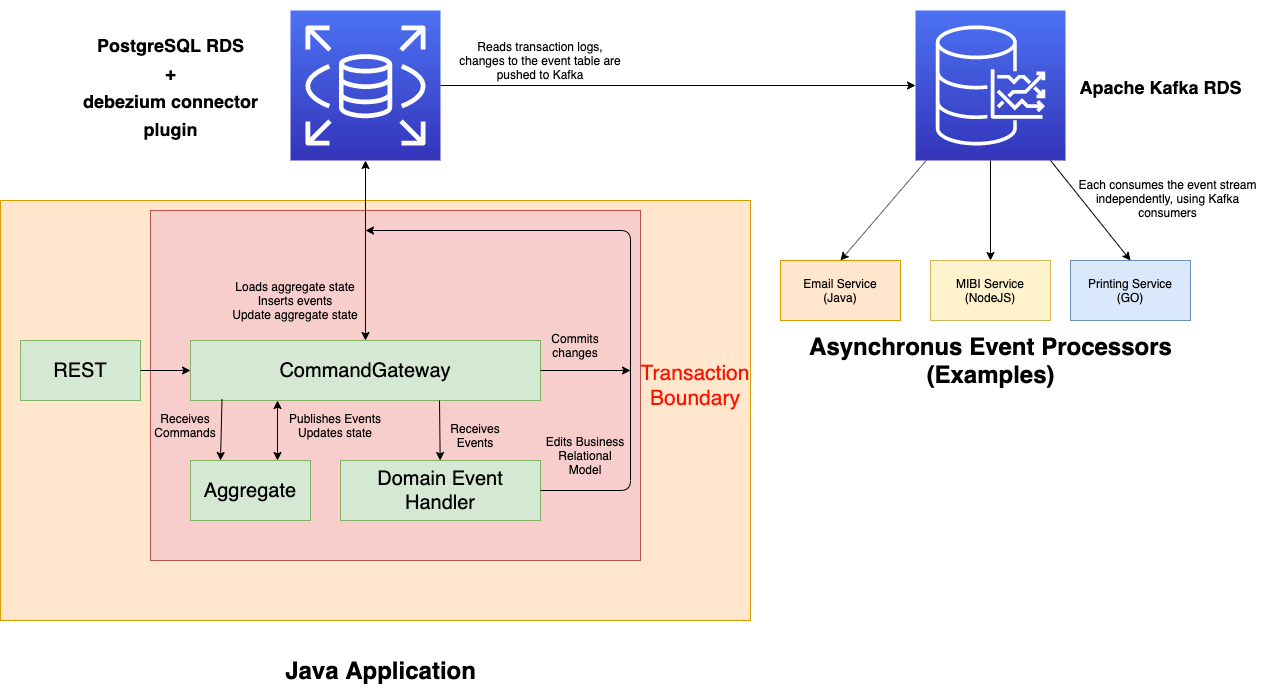
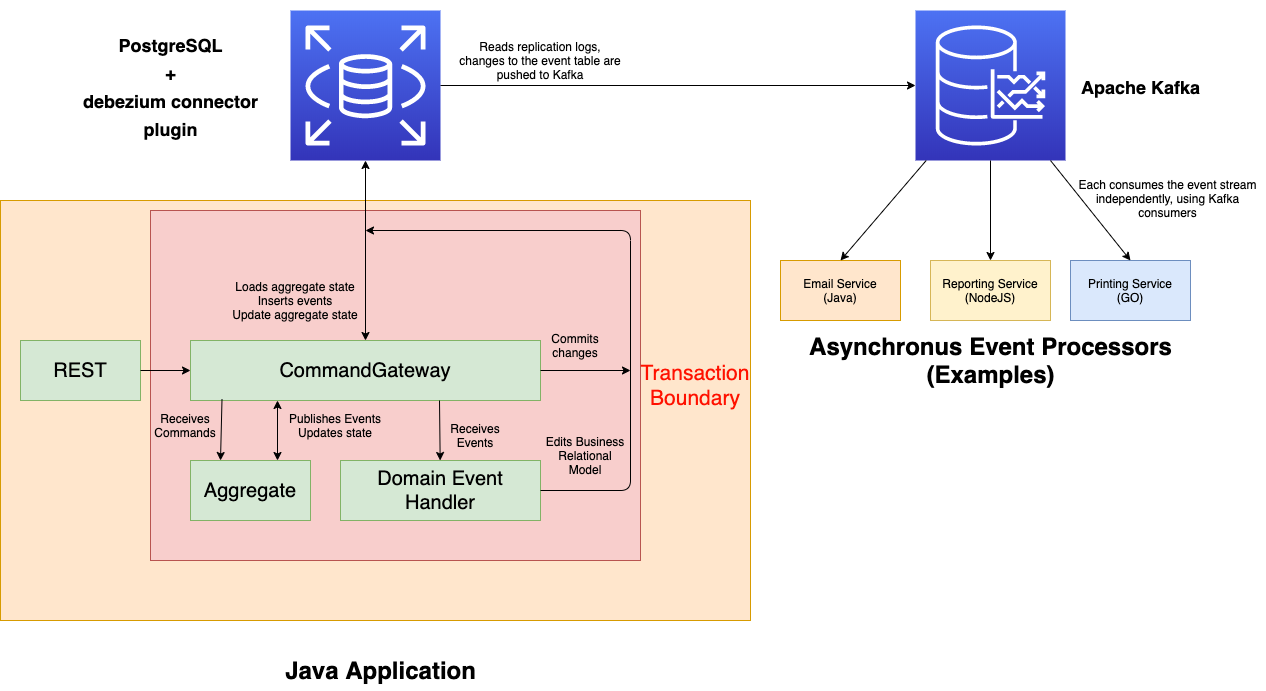
Fixed mistakes in documentation, code cleanup, simplified docker setup for example

diff --git a/examples/example-driver/src/main/java/com/moppletop/ddd/driver/DriverApp.java b/examples/example-driver/src/main/java/com/moppletop/ddd/driver/DriverApp.java
@@ -1,74 +1,13 @@
 package com.moppletop.ddd.driver;
 
-import com.moppletop.ddd.aggregate.AggregateRepository;
-import com.moppletop.ddd.aggregate.JdbcAggregateRepository;
-import com.moppletop.ddd.command.CommandGateway;
-import com.moppletop.ddd.command.DefaultCommandGateway;
-import com.moppletop.ddd.dependency.DependencyRegister;
-import com.moppletop.ddd.dependeny.ExplicitDependencyRegister;
-import com.moppletop.ddd.event.*;
-import com.moppletop.ddd.eventstream.kafka.KafkaEventStream;
-import com.moppletop.ddd.query.DefaultQueryGateway;
-import com.moppletop.ddd.query.QueryGateway;
-import com.moppletop.ddd.transformer.ObjectTransformer;
-import com.moppletop.ddd.transformer.jackson.JacksonObjectTransformer;
-import com.moppletop.ddd.wiring.ExplicitWiringManager;
-import com.moppletop.ddd.wiring.WiringManager;
 import org.springframework.boot.SpringApplication;
 import org.springframework.boot.autoconfigure.SpringBootApplication;
-
-import javax.sql.DataSource;
-import java.time.Duration;
 
 @SpringBootApplication
 public class DriverApp {
 
     public static void main(String[] args) {
         SpringApplication.run(DriverApp.class, args);
-    }
-
-    private final DependencyRegister dependencyRegister;
-    private final ObjectTransformer objectTransformer;
-    private final AggregateRepository aggregateRepository;
-    private final EventRepository eventRepository;
-    private final ExplicitWiringManager wiringManager;
-    private final CommandGateway commandGateway;
-    private final EventGateway eventGateway;
-    private final QueryGateway queryGateway;
-
-    private final EventStreamer eventStreamer;
-
-    public DriverApp(DataSource dataSource) {
-        this.dependencyRegister = new ExplicitDependencyRegister();
-        // Note this requires Jackson 2 on the classpath!
-        // If you are using another serialisation library, implement your own ObjectTransformer
-        this.objectTransformer = new JacksonObjectTransformer();
-        this.aggregateRepository = new JdbcAggregateRepository(objectTransformer);
-        this.eventRepository = new JdbcEventRepository(objectTransformer);
-        this.wiringManager = new ExplicitWiringManager(dependencyRegister);
-        this.commandGateway = new DefaultCommandGateway(
-                dataSource,
-                aggregateRepository,
-                eventRepository,
-                wiringManager
-        );
-        this.eventGateway = new DefaultEventGateway(wiringManager);
-        this.queryGateway = new DefaultQueryGateway(wiringManager);
-
-        this.eventStreamer = KafkaEventStream.builder()
-                .groupId("example-app")
-                .topic("dbserver1.public.event")
-                .kafkaHost("kafka:9092")
-                .pollingRate(Duration.ofSeconds(1))
-                .objectTransformer(objectTransformer)
-                .eventGateway(eventGateway)
-                .build();
-
-//        wiringManager.registerAggregate(MyAggregate.class);
-//        wiringManager.registerAggregate(MyOtherAggregate.class);
-//
-//        wiringManager.registerDomainEventHandlers(new MyDomainEventHandlers());
-//        wiringManager.re
     }
 
 }

diff --git a/framework/src/main/java/com/moppletop/ddd/dependeny/ExplicitDependencyRegister.java b/framework/src/main/java/com/moppletop/ddd/dependeny/ExplicitDependencyRegister.java
@@ -28,8 +28,8 @@ public class ExplicitDependencyRegister implements DependencyRegister {
     }
 
     /**
-     * Registers a dependency. Note for dependencies that are state defendant, like the current transaction or timestamp of the event
-     * you'll need to register it as a TypeSafeSupplier, the get will be invoked when the {@link DependencyRegister#getDependency(Class)} is called
+     * Registers a dependency. Note for dependencies that are state dependant, like the current transaction or timestamp of the event
+     * you'll need to register it as a TypeSafeSupplier, the get() will be invoked when the {@link DependencyRegister#getDependency(Class)} is called
      * Due to how generic types are implemented a regular {@link Supplier} will throw a {@link IllegalArgumentException}, use a TypeSafeSupplier instead
      *
      * @param dependency the dependency (or supplier of the dependency) to register

diff --git a/event-brokers/event-broker-kafka/src/main/java/com/moppletop/ddd/eventstream/kafka/KafkaEventStream.java b/event-brokers/event-broker-kafka/src/main/java/com/moppletop/ddd/eventstream/kafka/KafkaEventStream.java
@@ -36,11 +36,9 @@ public class KafkaEventStream implements EventStreamer {
 
     private final String groupId;
     private final String topic;
-    @Singular
     private final Collection<String> kafkaHosts;
     private final Duration pollingRate;
 
-    @Singular
     private final List<KafkaConsumerCustomiser> customisers;
 
     private final ObjectTransformer objectTransformer;
@@ -86,7 +84,7 @@ public class KafkaEventStream implements EventStreamer {
 
     @Override
     public void subscribe(String processingGroup, int threads) {
-        log.debug("Subscribing with {} thread(s) to processing group {}", threads, processingGroup);
+        log.debug("Subscribing with {} thread{} to processing group {}", threads, threads == 1 ? "" : "s", processingGroup);
         ThreadFactory threadFactory = new EventStreamThreadFactory(processingGroup);
 
         for (int i = 1; i <= threads; i++) {

diff --git a/framework/src/main/java/com/moppletop/ddd/command/DefaultCommandGateway.java b/framework/src/main/java/com/moppletop/ddd/command/DefaultCommandGateway.java
@@ -25,7 +25,7 @@ import java.util.WeakHashMap;
 @RequiredArgsConstructor
 public class DefaultCommandGateway implements CommandGateway {
 
-    // Mao target aggregate id to a lock
+    // Map target aggregate id to a lock
     private static final Map<UUID, UUID> AGGREGATE_LOCKS = new WeakHashMap<>();
 
     protected static Object getSynchronisedObjectFor(UUID targetAggregateId) {
@@ -137,7 +137,7 @@ public class DefaultCommandGateway implements CommandGateway {
 
         // If the aggregate didn't exist
         if (!aggregate.exists()) {
-            // We'll an initial "empty" state for the aggregate so we can get a global id, since the events will
+            // We'll create an initial "empty" state for the aggregate so we can get a global id, since the events will
             // require it
             globalId = aggregateRepository.saveAggregate(transaction, aggregate);
         }

diff --git a/framework/src/main/java/com/moppletop/ddd/database/TransactionAwareDataSourceProxy.java b/framework/src/main/java/com/moppletop/ddd/database/TransactionAwareDataSourceProxy.java
@@ -13,7 +13,7 @@ import java.util.logging.Logger;
  * A {@link Transaction} aware datasource, useful to integrating with libraries such as JPA for your business models.
  * Means you don't need to mess around with getting other libraries to play ball with {@link ConnectionProvider}.
  *
- * Beware that while in a transaction, a connection's commit(), rollback() and close() operations will silently fail,
+ * Beware that while in a transaction, a connection's commit(), rollback() and close() operations will silently do nothing,
  * the overarching transaction should handle that
  */
 @RequiredArgsConstructor

diff --git a/api/src/main/java/com/moppletop/ddd/event/EventGateway.java b/api/src/main/java/com/moppletop/ddd/event/EventGateway.java
@@ -9,7 +9,7 @@ public interface EventGateway {
      * When an event has been received, the event streamer should call this
      *
      * @param eventContainer The contained event that is being handled
-     * @throws Exception Any exception thrown here should be handled by the broker to mark that the event is a failure and
+     * @throws Exception Any exception thrown here should be handled by the streamer to mark that the event is a failure and
      * should be retried/dead lettered
      */
     void handleStreamedEvent(EventContainer<?> eventContainer) throws Exception;

diff --git a/framework/src/main/java/com/moppletop/ddd/aggregate/AggregateState.java b/framework/src/main/java/com/moppletop/ddd/aggregate/AggregateState.java
@@ -1,9 +1,6 @@
 package com.moppletop.ddd.aggregate;
 
-import java.util.Arrays;
-import java.util.LinkedList;
-import java.util.List;
-import java.util.UUID;
+import java.util.*;
 
 /**
  * Overarching transaction for application of aggregate events
@@ -57,7 +54,7 @@ public class AggregateState {
             throw new IllegalStateException("Transaction not active");
         }
 
-        transaction.eventBuffer.addAll(Arrays.asList(events));
+        Collections.addAll(transaction.eventBuffer, events);
     }
 
     private UUID aggregateId;

diff --git a/framework/src/main/java/com/moppletop/ddd/database/TransactionAwareConnectionProxy.java b/framework/src/main/java/com/moppletop/ddd/database/TransactionAwareConnectionProxy.java
@@ -8,7 +8,7 @@ import java.util.Properties;
 import java.util.concurrent.Executor;
 
 /**
- * A proxy for a SQL connection, only difference is that commit(), rollback() and close() will silently fail
+ * A proxy for a SQL connection, only difference is that commit(), rollback() and close() will silently do nothing
  *
  * @see TransactionAwareDataSourceProxy
  */

diff --git a/api/src/main/java/com/moppletop/ddd/dependency/DependencyRegister.java b/api/src/main/java/com/moppletop/ddd/dependency/DependencyRegister.java
@@ -1,7 +1,7 @@
 package com.moppletop.ddd.dependency;
 
 /**
- * A dependency register, keepers a mapping of dependencies which can be injected into Command/AggregateState/Event handlers
+ * A dependency register, keeps a mapping of dependencies which can be injected into Command/AggregateState/Event handlers
  */
 public interface DependencyRegister {
 

diff --git a/api/src/main/java/com/moppletop/ddd/error/IllegalDomainDefinitionException.java b/api/src/main/java/com/moppletop/ddd/error/IllegalDomainDefinitionException.java
@@ -13,4 +13,5 @@ public class IllegalDomainDefinitionException extends RuntimeException {
     public IllegalDomainDefinitionException(Throwable cause) {
         super(cause);
     }
+
 }

diff --git a/README.md b/README.md
@@ -11,8 +11,8 @@ notable differences:
 2. Asynchronous event listeners are driven off a message stream, not a database table
 
 While every module of this framework is abstracted out. The default implementation uses
-a [Apache Kafka](https://kafka.apache.org/) event stream coupled with [PostgreSQL](https://www.postgresql.org/).
-This means events are driven off the PostgreSQL transaction logs and not a separate call to Kafka
+an [Apache Kafka](https://kafka.apache.org/) event stream coupled with [PostgreSQL](https://www.postgresql.org/).
+This means events are driven off the PostgreSQL replication logs and not a separate call to Kafka
 or any other messaging implementation. Thus, greatly reducing transaction complexity.
 
 Since an external messaging technology standard is used, the domain is not tied to one
@@ -48,19 +48,22 @@ Add the following to your `pom.xml`:
 
 #### No Spring
 ```xml
+<properties>
+    <ddd.version>1.1.0</ddd.version>
+</properties>
+
 <dependencies>
-    <!-- ... -->
 
     <dependency>
         <groupId>com.moppletop.ddd</groupId>
         <artifactId>ddd-framework</artifactId>
-        <version>1.0.0</version>
+        <version>${ddd.version}</version>
     </dependency>
     
     <dependency>
         <groupId>com.moppletop.ddd</groupId>
         <artifactId>ddd-event-broker-kafka</artifactId>
-        <version>1.0.0</version>
+        <version>${ddd.version}</version>
     </dependency>
 
 </dependencies>
@@ -69,10 +72,14 @@ Add the following to your `pom.xml`:
 #### Spring
 
 ```xml
+<properties>
+    <ddd.version>1.1.0</ddd.version>
+</properties>
+
 <dependency>
     <groupId>com.moppletop.ddd</groupId>
     <artifactId>ddd-spring-boot-kafka-starter</artifactId>
-    <version>1.0.0</version>
+    <version>${ddd.version}</version>
 </dependency>
 ```
 
@@ -115,15 +122,16 @@ public MyApp(DataSource dataSource) {
 
 #### Spring
 The `ddd-spring-boot-kafka-starter` will bring in an autoconfigure that will essentially do what is done
-in the No Spring section for you. If you want to configure the properties of the `KafkaEventStream` you can add the following
+in the No Spring section for you. It will also register beans in the default application context for all those objects.
+If you want to configure the properties of the `KafkaEventStream` you can add the following
 to your `application.yaml` or `application.properties`:
 
 ```yaml
-# Polling rate defaults to 1 second
 ddd:
   kafka:
     groupId: my-app
     topic: dbserver1.public.event
+    pollingRate: 1000 # This is the default
     kafkaHosts:
       - kafka:9092
 ```
@@ -136,16 +144,17 @@ is opened and has statements executed against it. One way of your business logic
 ```java
 @DomainEventHandler
 public void handle(CustomerRegistered event, ConnectionProvider connectionProvider) {
-    // You don't need to close the connection, but you can if you want.
     // Don't close or commit the connection, that will be handled for you!
+    // Read the following section on how to do better handle connections
     Connection connection = connectionProvider.getConnection();
 
     connection.prepareStatement(...);
 }
 ```
 
-Though sometimes you may have some logic which is apart of another library which you want to integrate with, or maybe you
-are using an ORM like JPA & Hibernate. The way around this is wrapping your `DataSource` in a `TransactionAwareDataSourceProxy`.
+Having to remember not to close or commit connections isn't very intuitive or very ideal when having to integrate with
+another library which you want to integrate with, or an ORM like JPA & Hibernate. 
+The way around this is wrapping your `DataSource` in a `TransactionAwareDataSourceProxy`.
 This will ensure that all transaction management is handled by the framework, when a thread is in a transaction, calls to
 `DataSource#getConnection()` will return the connection used by the current transaction. Though this connection will also be
 wrapped in a `TransactionAwareConnectionProxy`, which will have `commit()`, `rollback()` and `close()` edited to do nothing.

diff --git a/examples/example-driver/README.md b/examples/example-driver/README.md
@@ -6,7 +6,6 @@ It has 3 endpoints. There is an `OpenApi 3` spec for the REST API in this direct
 ## Try it out
 ### Prerequisites
 + Docker
-+ Curl/Postman
 
 ### Get it running
 From this directory:
@@ -14,34 +13,13 @@ From this directory:
 + `cd local-test`
 + `docker-compose build` Builds the custom postgres image and driver domain image
 + `docker-compose up` Starts all the containers
-+ `sh connect.sh` Adds a connector between the PostgreSQL and debezium plugin, you may need to wait before running this
-command. You'll know when it succeeds as a `JSON` body will be returned similar to this:
-```json
-{
-  "name": "driver_app",
-  "config": {
-    "connector.class": "io.debezium.connector.postgresql.PostgresConnector",
-    "tasks.max": "1",
-    "database.hostname": "postgres",
-    "database.port": "5432",
-    "database.user": "postgres",
-    "database.password": "password",
-    "database.dbname": "driver_db",
-    "database.server.name": "dbserver1",
-    "database.whitelist": "driver_db",
-    "database.history.kafka.bootstrap.servers": "kafka:9092",
-    "database.history.kafka.topic": "schema-changes",
-    "name": "driver_app"
-  },
-  "tasks": [],
-  "type": "source"
-}
-```
-This script is why the requirement for curl exists, if you don't have curl then copy the script into Postman, or reverse engineer it
-into whatever you use.
 
-Now head to `http://localhost:9090` in your browser of choice and register some drivers!
+Now head to http://localhost:9090 in your browser of choice and register some drivers!
 If the logs of the driver domain app, show `Got an async event: ...` then it's all working.
+
+It may take a few seconds to startup as the driver app has to wait for the connector to fully startup before initialising.
+This isn't a requirement but because the image attempts to setup the connector between Postgres and Kafka on startup.
+See `image-scripts/entrypoint.bash`
 
 ### Debugging
 
@@ -83,7 +61,7 @@ Postgres.
 
 ### Query Driver
 #### Endpoint
-`/v1/query/driver/get?driverId=?`
+`/v1/query/driver/get/{driverId}`
 #### Domain Flow
 + driver_by_id (Query)
 + DriverRepository
